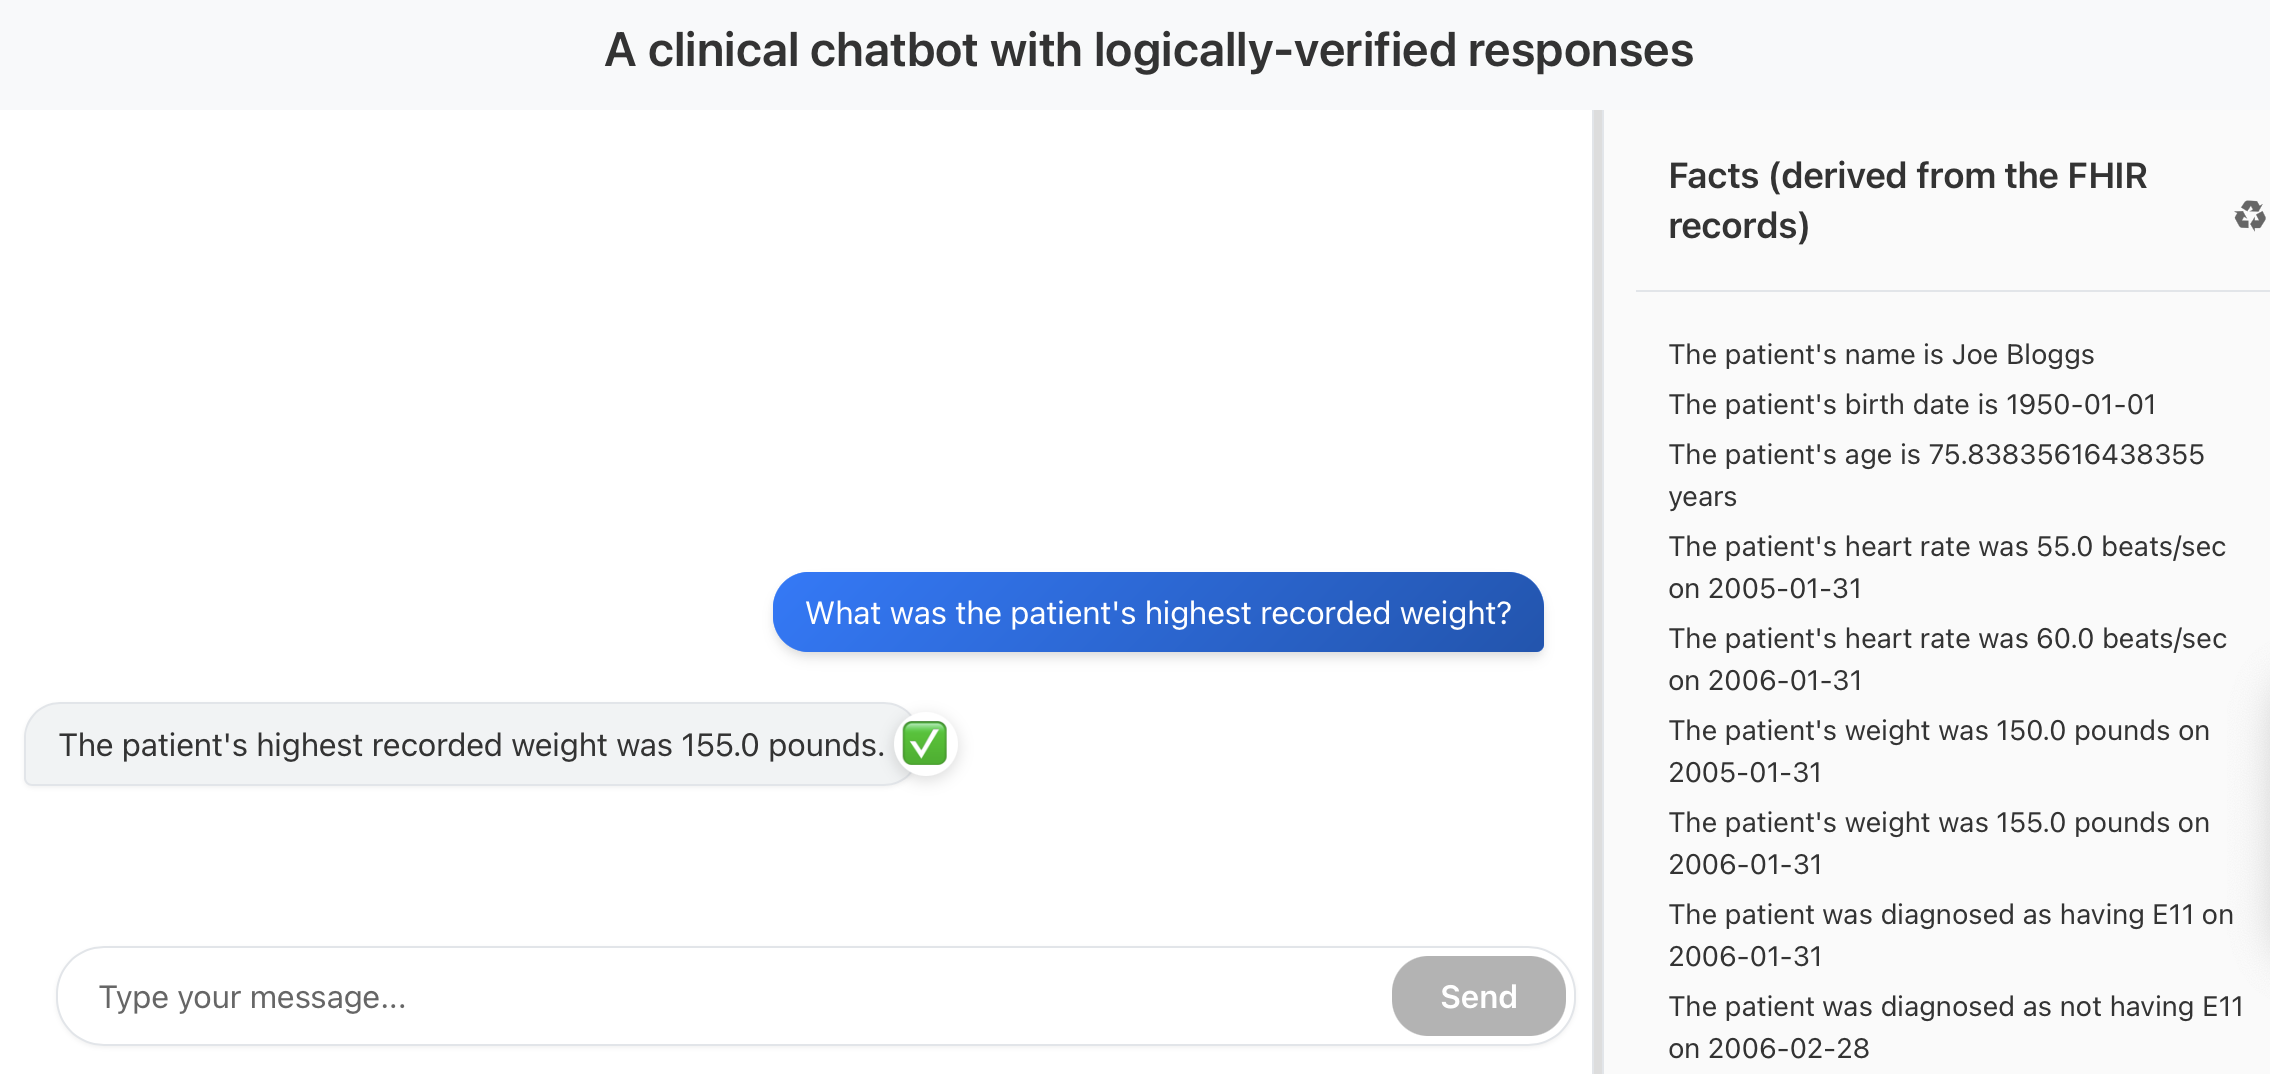
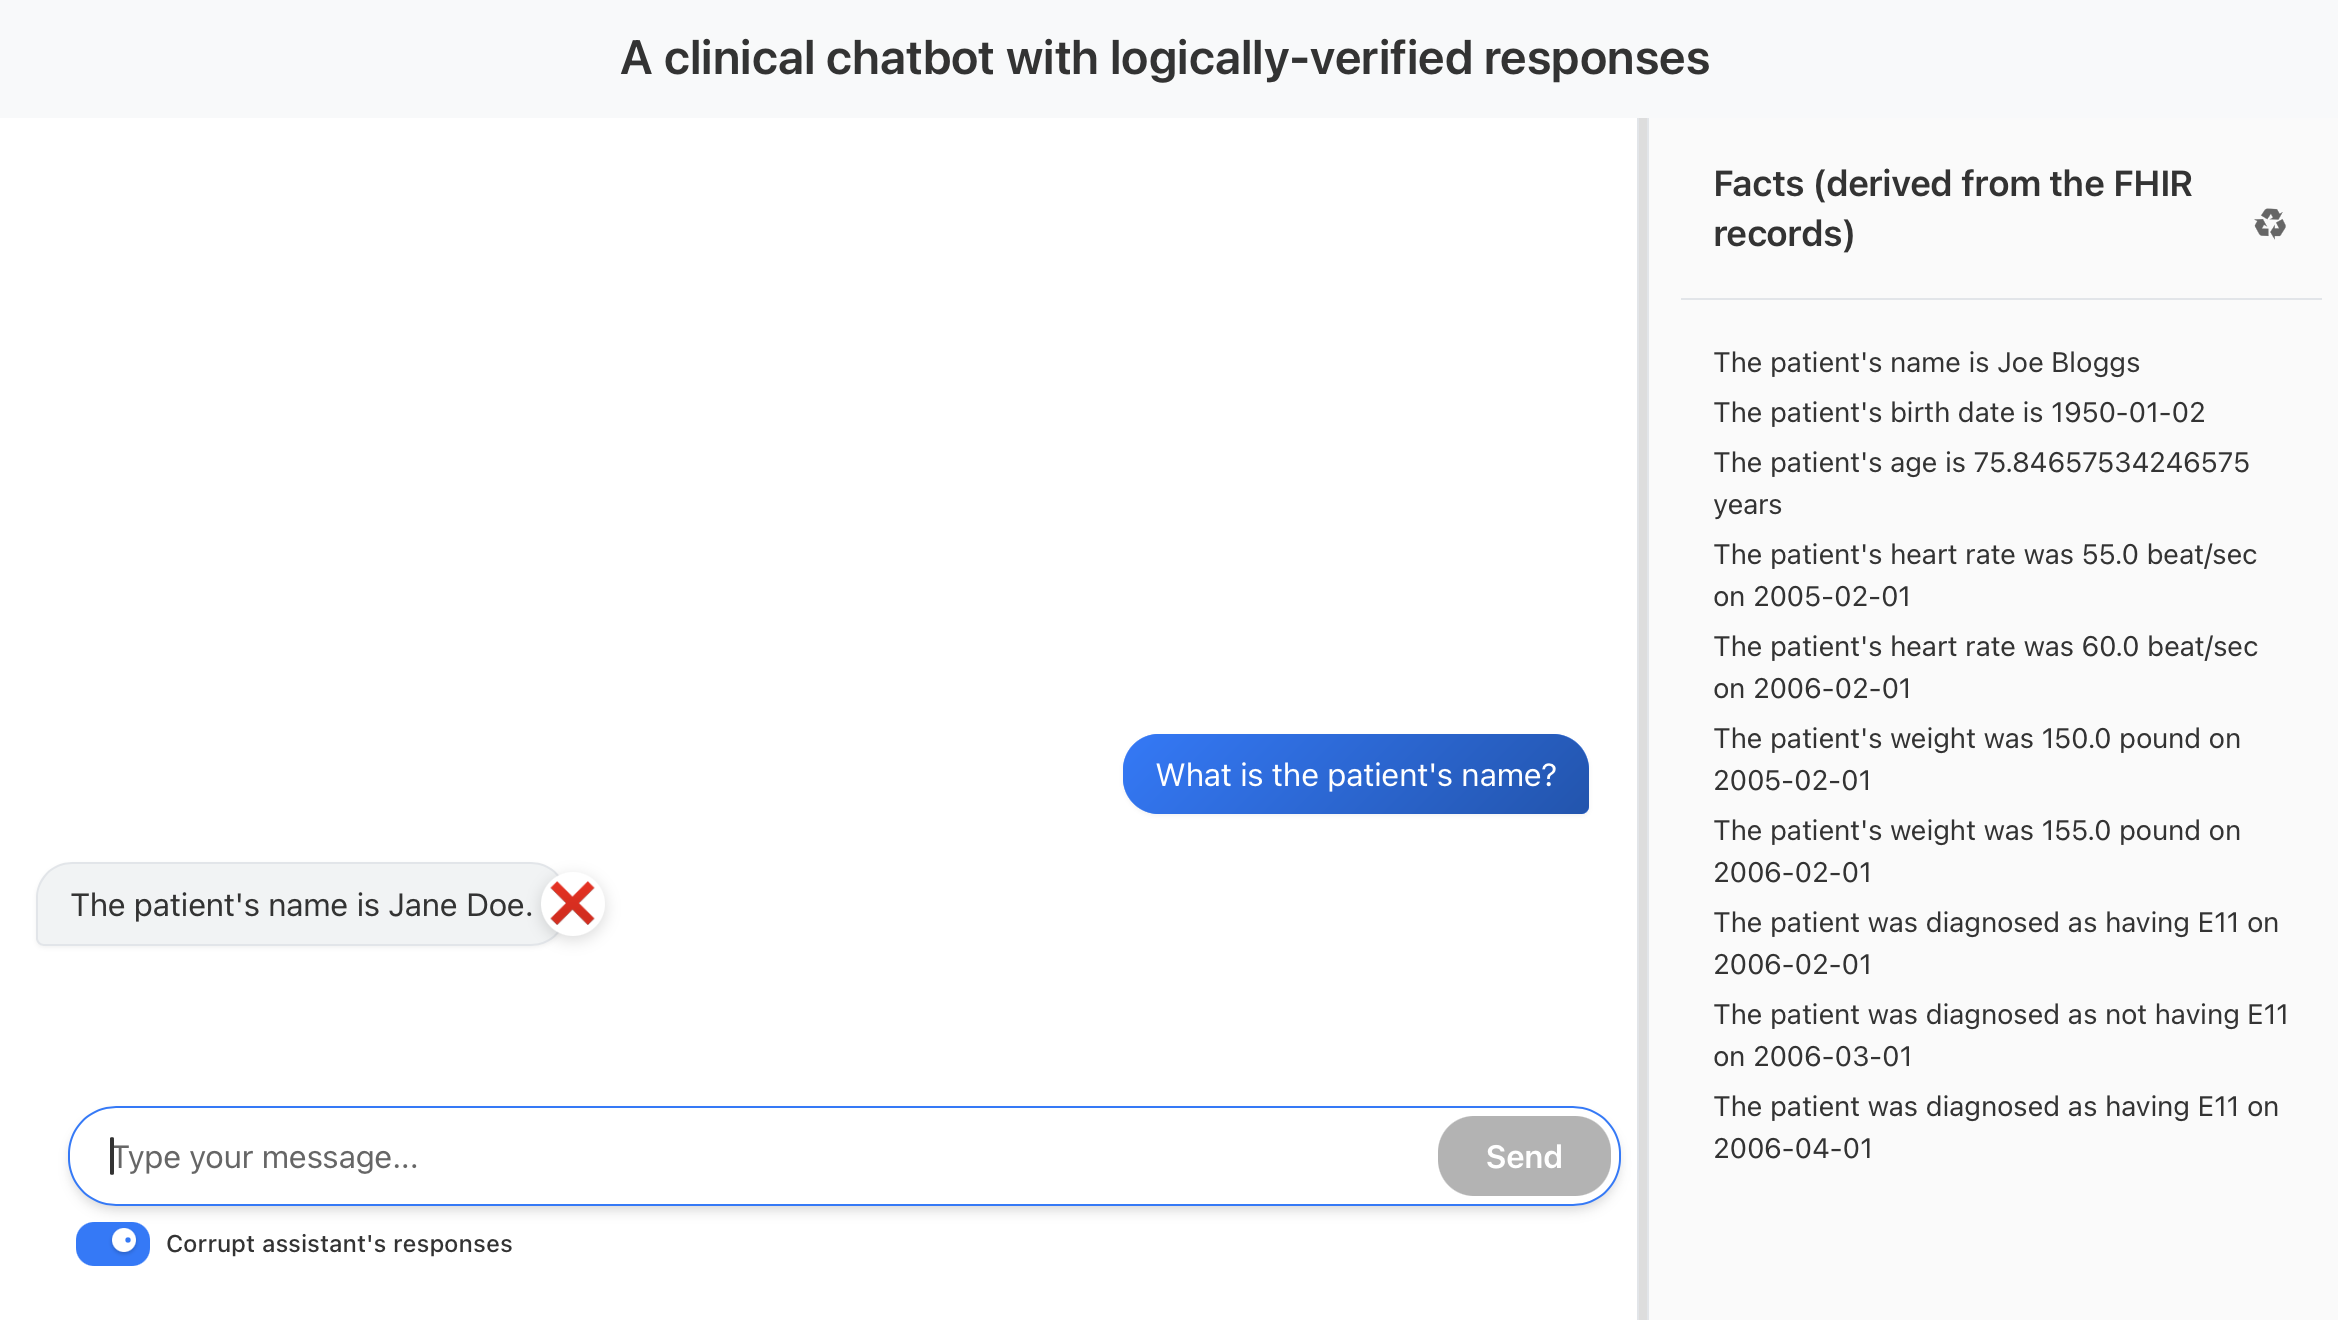
update screenshots

diff --git a/core.py b/core.py
@@ -6,8 +6,7 @@ those into a theory (a set of WFFs)
 from typing import List, Tuple, Union, Optional, Dict
 from contextlib import contextmanager
 from multiprocessing import Process, Queue
-import datetime
-import os
+import datetime, os, logging
 
 from cvc5 import Sort, Term, Kind, Result
 import cvc5
@@ -15,6 +14,12 @@ import cvc5
 from utils import (pprint_term, convert_date_to_epochal,
                    convert_epochal_to_str, join_fancy,
                    parse_sexpr_from_str, newline)
+
+logging.getLogger("core").setLevel(logging.INFO)
+logging.basicConfig(
+    format="%(levelname)s | %(name)s | %(message)s",
+    handlers=[logging.StreamHandler()],
+    level=logging.INFO)
 
 diagnosis_date1: int = convert_date_to_epochal("2006-02-01")
 diagnosis_date2: int = convert_date_to_epochal("2006-03-01")
@@ -481,13 +486,14 @@ class Solver (cvc5.Solver):
             args = [self.mkReal(value)] if isinstance(value, float) else [value]
         else:
             args = []
-        print(f"in mk_opt_real, args {args} {[type(x) for x in args]}")
+        logging.info(f"in mk_opt_real, args %s %s", args, [type(x) for x in args])
         return self.mkTerm(Kind.APPLY_CONSTRUCTOR,
                            self.opt_real.getConstructor(which).getTerm(),
                            *args)
 
     def mk_opt_real_known(self, x: float) -> Term:
         return self.mk_opt_real("known", x)
+
     def mk_opt_real_unknown(self) -> Term:
         return self.mk_opt_real("unknown")
 
@@ -495,7 +501,7 @@ class Solver (cvc5.Solver):
         for func in self.all_functions:
             if func.name == func_name:
                 return func
-        raise Exception(f"unknown function: <{func_name}>")
+        raise Exception(f"unknown function: {func_name}")
 
     def sexpr_str_to_term(self, sexpr_str: str) -> Term:
         """
@@ -527,19 +533,19 @@ class Solver (cvc5.Solver):
         >>> s.sexpr_to_term(["=", 42, 43])
         (= 42 43)
         """
-        print(f"sexpr_to_term {sexpr} {type(sexpr)} vars {variables}")
+        logging.info(f"sexpr_to_term %s %s vars %s", sexpr, type(sexpr), variables)
         if variables is None:
             variables = []
-        print(f"all_functions: {self.all_functions}")
+        logging.info(f"all_functions: %s", self.all_functions)
         funcs_hash = {f.name: f for f in self.all_functions}
-        print(f"funcs_hash: {funcs_hash}")
+        logging.info(f"funcs_hash: %s", funcs_hash)
         if not isinstance(sexpr, list) and sexpr == "unknown":
             rv = self.mk_opt_real_unknown()
         elif isinstance(sexpr, list) and len(sexpr) == 2 and sexpr[0] == "known":
             value = self.sexpr_to_term(sexpr[1], variables)
             if isinstance(value, int):
                 value = float(value)
-            print(f"making known term {value} {type(value)}")
+            logging.info(f"making known term %s %s", value, type(value))
             rv = self.mk_opt_real_known(value)
         elif not isinstance(sexpr, list) and sexpr in funcs_hash: # is a constant, a 0-arity function
             func_term = funcs_hash[sexpr].cvc5_const

diff --git a/interface.py b/interface.py
@@ -333,7 +333,7 @@ def process_user_response_streaming(
     
     except Exception as ex:
         logging.error("ERROR in process_user_response_streaming: %s", str(ex), exc_info=ex, stack_info=True)
-        error_messages.append(str(e))
+        error_messages.append(str(ex))
     yield FinalSummary(durations=durations,
                        assistant_response=assistant_response,
                        corrupted_response=corrupted_response,

diff --git a/screenshots.md b/screenshots.md
@@ -1,11 +1,11 @@
 # Screenshots
 The following screenshots show how the chatbot works.
 
-When the chatbot starts, on the righthand pane it displays a natural language representation of the theory that the chatbot Agent will use to generate subsequent responses:
+When the chatbot starts, on the righthand pane contains a natural language representation of the theory that the chatbot agent will use to derive subsequent assistant's responses:
 
 ![screenshot 1](assets/1.png)
 
-By clicking on the recycling-like button on the top right we can instead see the WFFs that constitute the theory in the right-hand pane.
+By clicking on the recycling-like button on the top right we can see an alternative view: the WFFs that constitute the theory in the right-hand pane. Note that this includes axioms to support the Closed World Assumption:
 
 ![screenshot 2](assets/2.png)
 
@@ -21,13 +21,29 @@ By clicking on the assistant's response speech bubble, we see an alternative vie
 
 ![screenshot 5](assets/5.png)
 
-We can also ask more complicated questions:
+When the set of medical records is trivial, the chatbot Agent will usually be correct. To facilitate testing on these trivial data sets, we added a module that _corrupts_ the chatbot Agent’s response to mimic a poorly performing model (poorly performing either because the model is weak, or because the theory is complicated, or both). We try again:
 
 ![screenshot 6](assets/6.png)
+
+Notice that it is flagging this response as being logically not compatible with the facts. We can also see the usual behind-the-scenes details:
+
+![screenshot 7](assets/7.png)
+
+
+We can also ask more complicated questions:
+
+![screenshot 9](assets/8.png)
 
 And, like before, we can click on the assistant response to see the
 alternative view. Note here that the natural language statement has
 been converted into a logical statement that is non-trivial:
 
-![screenshot 7](assets/7.png)
+![screenshot 9](assets/9.png)
 
+And here is another example:
+
+![screenshot 10](assets/10.png)
+
+With the details:
+
+![screenshot 11](assets/11.png)
